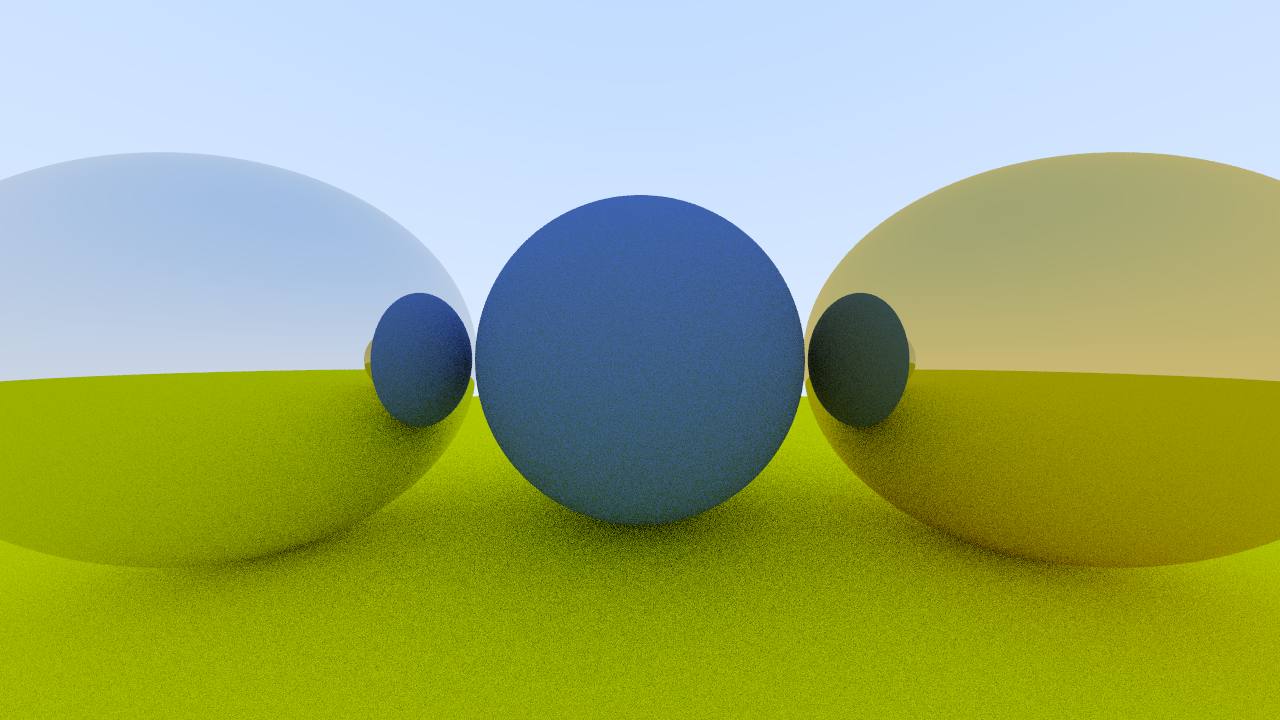
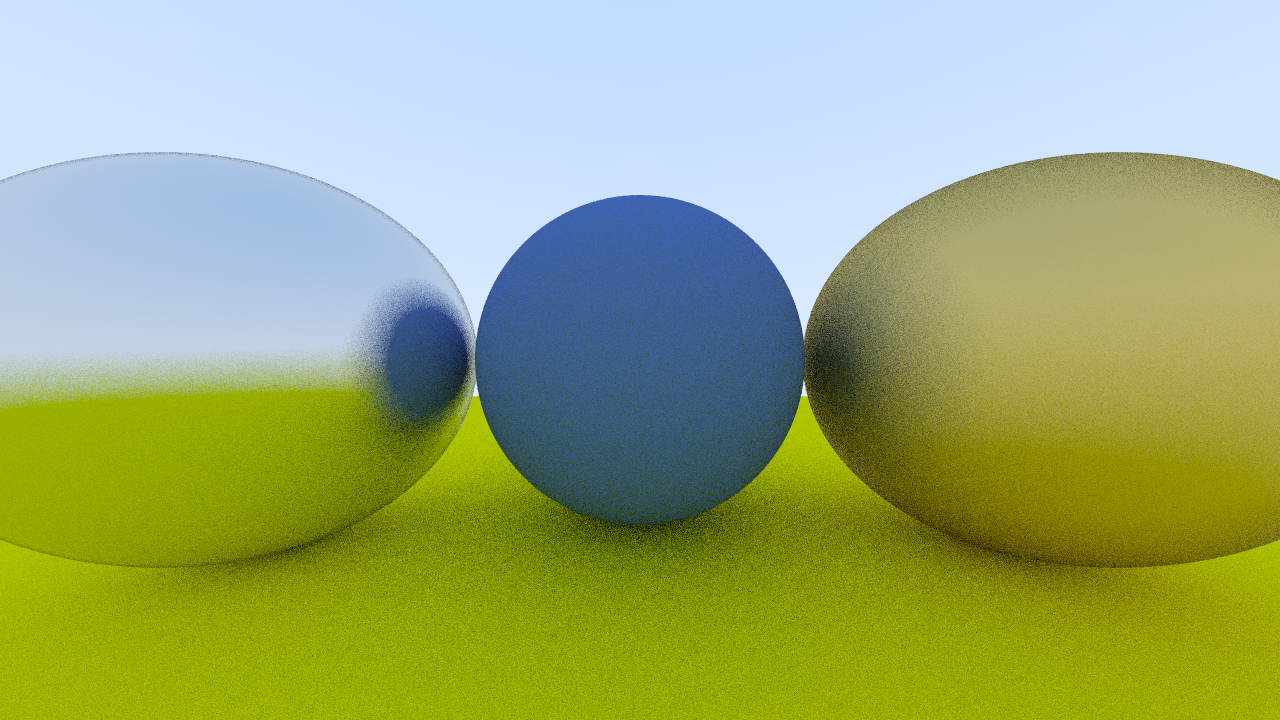
Add fuzz to metal material

Changed region(s): [[0.0, 0.2139, 1.0, 1.0], [0.2812, 0.9472, 0.3125, 1.0]]

diff --git a/raytracer-weekend/raytracer-weekend.cpp b/raytracer-weekend/raytracer-weekend.cpp
@@ -19,8 +19,8 @@ int main()
 
 	auto material_ground = make_shared<lambertian>(color(0.8, 0.8, 0.0));
 	auto material_center = make_shared<lambertian>(color(0.1, 0.2, 0.5));
-	auto material_left = make_shared<metal>(color(0.8, 0.8, 0.8));
-	auto material_right = make_shared<metal>(color(0.8, 0.6, 0.2));
+	auto material_left = make_shared<metal>(color(0.8, 0.8, 0.8), 0.3);
+	auto material_right = make_shared<metal>(color(0.8, 0.6, 0.2), 1.0);
 
 	world.add(make_shared<sphere>(point3(0.0, -100.5, -1.0), 100.0, material_ground));
 	world.add(make_shared<sphere>(point3(0.0, 0.0, -1.2), 0.5, material_center));
@@ -33,10 +33,6 @@ int main()
 	cam.image_width = 1280;
 	cam.samples_per_pixel = 16;
 	cam.max_depth = 8;
-
-
-
-
 
 
 	// Render

diff --git a/raytracer-weekend/material.h b/raytracer-weekend/material.h
@@ -35,18 +35,19 @@ private:
 
 class metal : public material {
 public:
-	metal(const color& albedo) : albedo(albedo) {}
+	metal(const color& albedo, double fuzz) : albedo(albedo), fuzz(fuzz < 1 ? fuzz : 1) {}
 
 	bool scatter(const ray& r_in, const hit_record& rec, color& attenuation, ray& scattered)
 		const override {
-		vec3 reflected = reflect(r_in.direction(), rec.normal);
+		vec3 reflected = reflect(r_in.direction(), rec.normal) + (fuzz * random_unit_vector());
 		scattered = ray(rec.p, reflected);
 		attenuation = albedo;
-		return true;
+		return (dot(scattered.direction(), rec.normal) > 0);
 	}
 
 private:
 	color albedo;
+	double fuzz;
 };
 
 #endif
